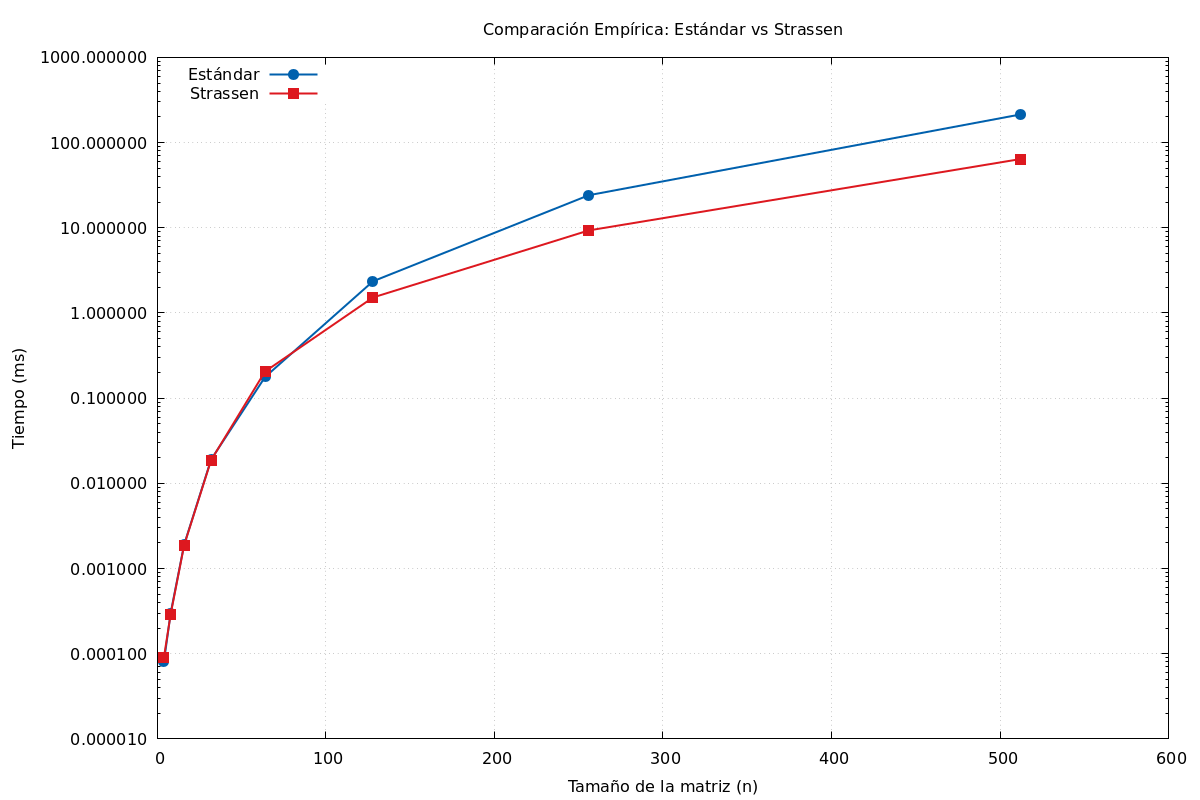
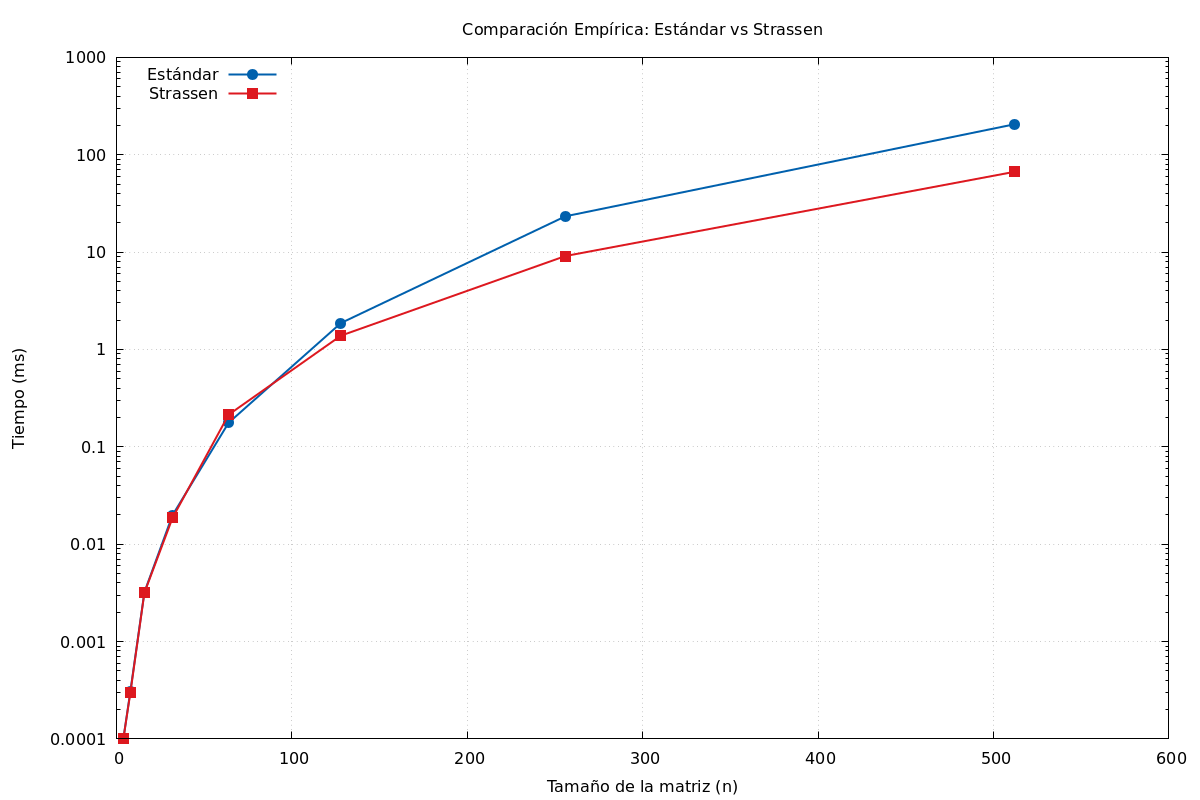
Pruebas con caso base 32 con potencias de 2

diff --git a/main.cpp b/main.cpp
@@ -31,7 +31,7 @@ int main() {
     int repetitions = 10;
 
     //Dirigir datos
-    std::ofstream csv_file("data/resultados_bc08.csv");
+    std::ofstream csv_file("data/resultados_bc32.csv");
     csv_file << "n,std_ms,strassen_ms\n";
 
     std::cout << "n,time_ms" << std::endl;

diff --git a/matrix_str.cpp b/matrix_str.cpp
@@ -15,7 +15,7 @@ int next_power_of_2(int n) {
 }
 void multiply_strassen(const Matrix& A, const Matrix& B, Matrix& C, int n) {
     //Umbral empírico
-    if (n <= 8) {
+    if (n <= 32) {
         multiply_std(A, B, C, n);
         return;
     }